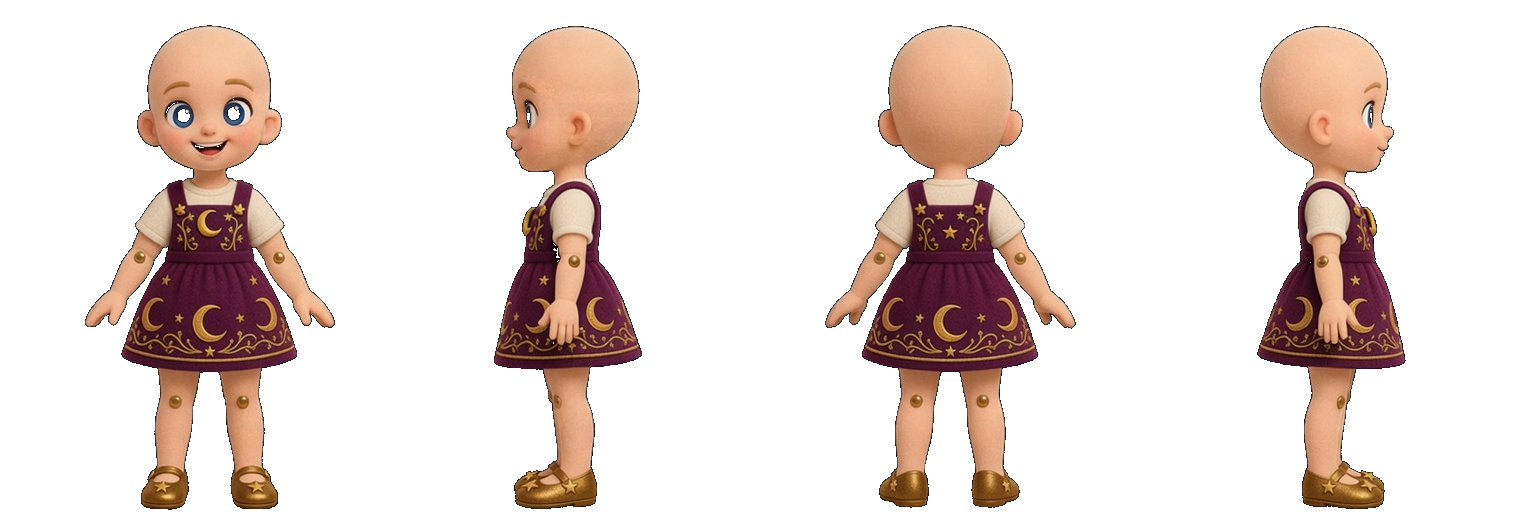
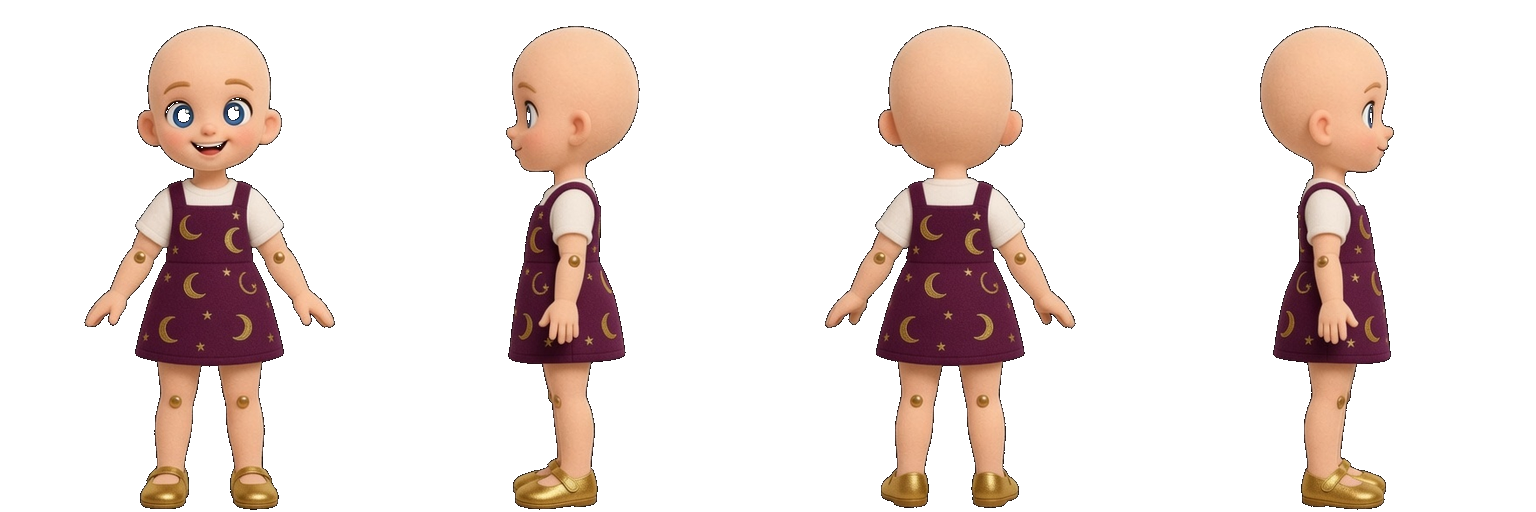
Redraw collection clothes on the girl’s real turnaround, and open the album as a book.
New garden, seaside, winter and moonlight looks are measured to her, not cut from old drafts. Opening a collection fills the screen with the doll and that theme’s mix-and-match pieces.

diff --git a/penny-fever/world/crew-selector.css b/penny-fever/world/crew-selector.css
@@ -42,6 +42,21 @@ dialog.crew-book.is-open,dialog.crew-book[open]{display:block;position:fixed;ins
 .crew-runway-turn span{min-width:4.5rem;text-align:center;letter-spacing:.08em;text-transform:uppercase;font:600 12px system-ui}
 @keyframes crew-fall{to{transform:translateY(130%) rotateZ(22deg);opacity:0}}
 @keyframes crew-arrive{from{transform:translateY(-28%) scale(.92);opacity:0}to{transform:none;opacity:1}}
-@media(max-width:640px){.crew-grid{grid-template-columns:repeat(3,1fr)}.crew-runway{height:240px}.crew-book{padding:18px}.doll-torso-preview{width:100%}.doll-maker-parts{width:100%}}
+.crew-book.is-open-album{width:min(960px,96vw);height:min(92dvh,820px);display:flex;flex-direction:column;padding:16px 18px}
+.crew-book.is-open-album .crew-runway,
+.crew-book.is-open-album .crew-grid,
+.crew-book.is-open-album .crew-done,
+.crew-book.is-open-album .crew-kicker,
+.crew-book.is-open-album #crewTitle,
+.crew-book.is-open-album .crew-collections > p,
+.crew-book.is-open-album .crew-runway-turn:not(.doll-torso-preview .crew-runway-turn){display:none}
+.crew-book.is-open-album .crew-collections{border:0;margin:0;padding:0;flex:1;min-height:0;display:flex;flex-direction:column}
+.crew-book.is-open-album .doll-torso-row{flex:1;min-height:0;align-items:stretch}
+.crew-book.is-open-album .doll-torso-preview{position:sticky;top:0}
+.crew-book.is-open-album .doll-preview-stage{width:150px;height:200px}
+.crew-book.is-open-album #dollCollection{flex:1;min-height:0;overflow:auto}
+.crew-book.is-open-album .doll-piece-thumb{width:52px;height:70px;flex-basis:52px}
+.crew-book.is-open-album .doll-chip.doll-piece{border-radius:10px;padding:6px 10px 6px 6px}
+@media(max-width:640px){.crew-grid{grid-template-columns:repeat(3,1fr)}.crew-runway{height:240px}.crew-book{padding:18px}.doll-torso-preview{width:100%}.doll-maker-parts{width:100%}.crew-book.is-open-album{height:96dvh;padding:12px}.crew-book.is-open-album .doll-torso-row{flex-direction:column}.crew-book.is-open-album .doll-preview-stage{width:110px;height:146px}}
 
 .crew-entry{display:flex;align-items:center;gap:14px;text-align:left}.crew-entry > div{flex:1;min-width:0}#chosenCrewPortrait{width:76px;flex:0 0 76px;height:101px;border:1px solid #b49360;border-radius:6px;background-color:#fffaf0;background-size:400% 100%;background-position:0 0;background-repeat:no-repeat}

diff --git a/penny-fever/index.html b/penny-fever/index.html
@@ -51,9 +51,9 @@
   <link rel="stylesheet" href="vendors/fortune.css?v=interior-cam-1">
   <link rel="stylesheet" href="vendors/pass.css?v=interior-cam-1">
   <link rel="stylesheet" href="world/ticket-till.css?v=booth-till-1">
-  <script type="module" src="world/alley.js?v=chat-pop-2"></script>
-  <script type="module" src="world/crew-selector.js?v=rotate-1"></script>
-  <link rel="stylesheet" href="world/crew-selector.css?v=rotate-1">
+  <script type="module" src="world/alley.js?v=doll-book-3"></script>
+  <script type="module" src="world/crew-selector.js?v=doll-book-3"></script>
+  <link rel="stylesheet" href="world/crew-selector.css?v=doll-book-3">
   <link rel="stylesheet" href="restyle.css?v=aura-tools-1">
   <link rel="stylesheet" href="world/paper-game-booths.css?v=prize-fly-1">
 </head>
@@ -196,7 +196,7 @@
       }
       var s = document.createElement('script');
       s.type = 'module';
-      s.src = 'world/crew-selector.js?v=rotate-1';
+      s.src = 'world/crew-selector.js?v=doll-book-3';
       s.onload = function () {
         if (window.PennyFeverDoll && window.PennyFeverDoll.open) window.PennyFeverDoll.open(e);
       };

diff --git a/penny-fever/world/crew-selector.js b/penny-fever/world/crew-selector.js
@@ -1,7 +1,7 @@
 import {
   SKINS, EYE_COLORS, COLLECTIONS,
   MINE_ID, blankDraft, composeDoll, keepMine, getMine, preloadDollArt,
-} from './paper-dolls.js?v=doll-book-2';
+} from './paper-dolls.js?v=doll-book-3';
 
 export const CREW_IDS = ['bluebell', 'ruby', 'violet', 'oliver', 'sunny', 'rowan'];
 const key = 'pf-selected-crew-v1';
@@ -161,6 +161,7 @@ function openCollection(id) {
   const col = COLLECTIONS.find(c => c.id === id);
   if (!col) return;
   boot.draft = { ...boot.draft, collection: id };
+  document.querySelector('dialog.crew-book')?.classList.add('is-open-album');
   const home = document.getElementById('dollHome');
   const tray = document.getElementById('dollCollection');
   const title = document.getElementById('dollBookTitle');
@@ -186,6 +187,7 @@ function openCollection(id) {
 
 function closeCollection() {
   boot.draft = { ...boot.draft, collection: null };
+  document.querySelector('dialog.crew-book')?.classList.remove('is-open-album');
   const home = document.getElementById('dollHome');
   const tray = document.getElementById('dollCollection');
   if (home) home.hidden = false;

diff --git a/penny-fever/world/alley.js b/penny-fever/world/alley.js
@@ -3,9 +3,9 @@
 import * as THREE from "./lib/three.module.min.js";
 import { mountRestyle, poseRestyle } from "./restyle.js?v=keep-light-1";
 import { installPaperProprietor, updatePaperProprietor } from "./paper-proprietor.js?v=keep-light-1";
-import { paperRail, makePaperEntrance, installCrewGuest, updateCrewGuest, FOYER_IN, FOYER_OUT } from "./paper-guest-entrance.js?v=rotate-1";
+import { paperRail, makePaperEntrance, installCrewGuest, updateCrewGuest, FOYER_IN, FOYER_OUT } from "./paper-guest-entrance.js?v=doll-book-3";
 import { phoneLane } from "./phone-lane.js?v=keep-light-1";
-import { installPaperCrew, updatePaperCrew } from "./paper-crew.js?v=rotate-1";
+import { installPaperCrew, updatePaperCrew } from "./paper-crew.js?v=doll-book-3";
 import { installIndividualVendors } from "./paper-vendors.js?v=keep-light-1";
 import {COUNTER, LOOP_START, makeVisibleTicketBooth, updateTicketBooth, extendPaperAlley, makePaperWalls, installTicketService, updateTicketService, paintAuraWallet} from "./paper-midway.js?v=aura-tools-1";
 import {openTill} from "./ticket-till.js?v=booth-till-1";

diff --git a/penny-fever/world/paper-guest-entrance.js b/penny-fever/world/paper-guest-entrance.js
@@ -1,5 +1,5 @@
 import * as THREE from './lib/three.module.min.js';
-import { getDoll, onDollChange, artUrl } from './crew-selector.js?v=doll-book-2';
+import { getDoll, onDollChange, artUrl } from './crew-selector.js?v=doll-book-3';
 import {loadWallArt} from './walls/art.js?v=keep-light-1';
 import {buildWall} from './walls/models.js?v=paper-alley-live-4';
 import { decorativePaper } from './paper-panels.js?v=keep-light-1';

diff --git a/penny-fever/world/paper-crew.js b/penny-fever/world/paper-crew.js
@@ -1,6 +1,6 @@
 import * as THREE from './lib/three.module.min.js';
 import { paperRail } from './paper-guest-entrance.js?v=keep-light-1';
-import { CREW_IDS, crewArt, getDoll, onDollChange } from './crew-selector.js?v=doll-book-2';
+import { CREW_IDS, crewArt, getDoll, onDollChange } from './crew-selector.js?v=doll-book-3';
 
 export const CREW = CREW_IDS.map((id) => id[0].toUpperCase() + id.slice(1));
 
